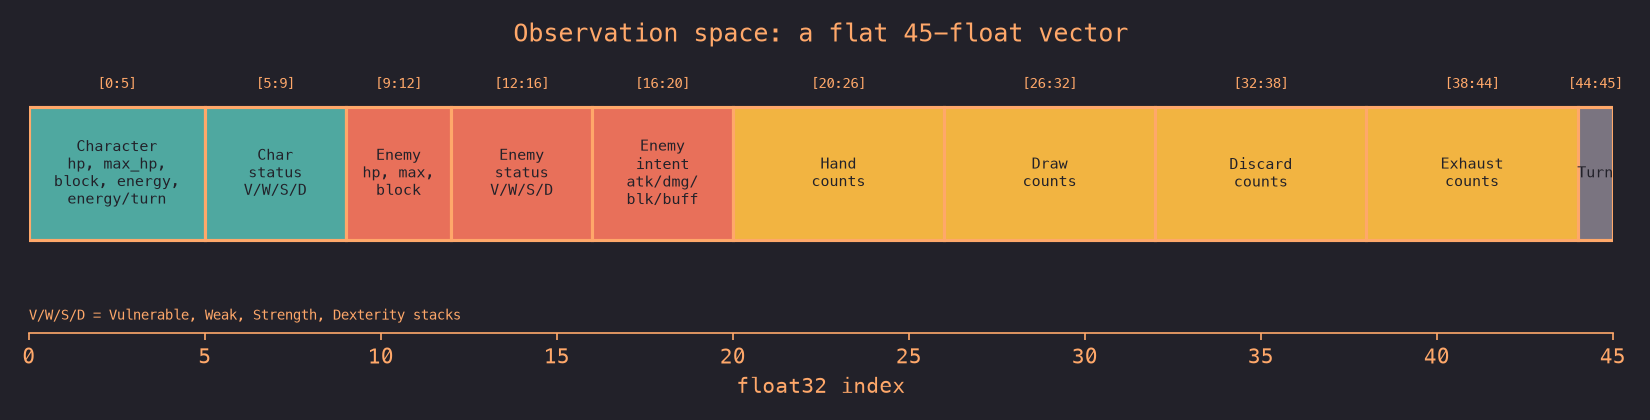
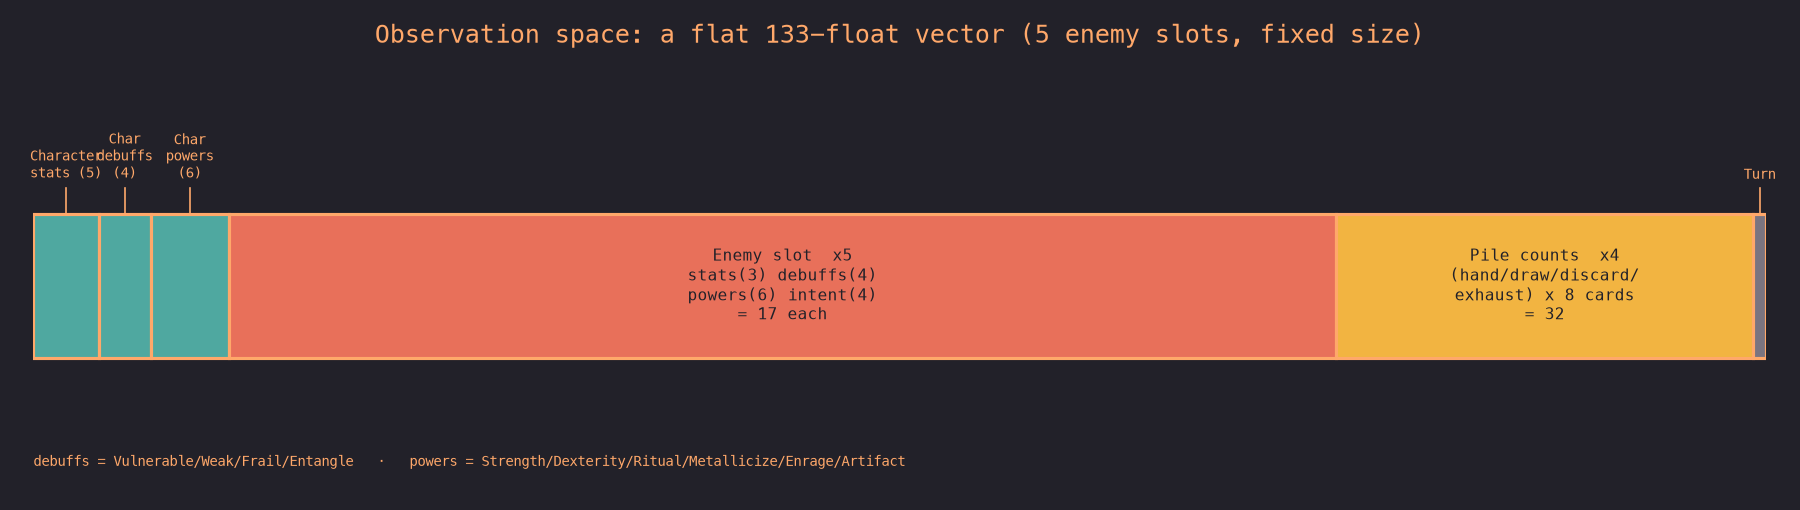
ROB-79: README overhaul + regenerated obs/action figures
Closes the M3 deferred batch. The README described a single Jaw Worm fight with
a 45-float obs and Discrete(7) -- all stale.

- README: reframed Scope around the full Act 1 roster + weighted encounter
  selection + the configurable simulator; Quickstart shows the --pool/--deck/
  --config CLI and the MinispireEnv(pool, deck) Python surface; Environment spec
  updated to the 133-float obs (debuff/power split, 5 fixed enemy slots) and
  Discrete(41) = 8 cards x 5 targets + end turn; roadmap reflects Phase 1 done.
- Figures (analysis/blog_figures.py): regenerated the obs + action diagrams for
  the new sizes, abbreviated per the "structure over enumeration" goal -- the obs
  band collapses the 5 enemy slots and 4 piles into summarized blocks, and the
  action figure is a card x target grid, not 41 boxes. Widths/counts are DERIVED
  from the engine constants (CombatEnv.*), so the figure can't drift again.
  Copied into assets/ (the tracked copies the README embeds).

227 C++ + 91 Python pass.

diff --git a/analysis/blog_figures.py b/analysis/blog_figures.py
@@ -80,50 +80,73 @@ ENV_STEPS_PER_SEC = 145_000
 TRAIN_FPS_BEST = 4_300
 TRAIN_FPS_CONTENDED = 1_135
 
-# --- Observation layout (src/combat_env.cc::compute_obs, 45 floats) ------------
-# (label, start_idx, count, color_key)
-_OBS_BLOCKS = [
-    ("Character\nhp, max_hp,\nblock, energy,\nenergy/turn", 0, 5, "agent"),
-    ("Char\nstatus\nV/W/S/D", 5, 4, "agent"),
-    ("Enemy\nhp, max,\nblock", 9, 3, "enemy"),
-    ("Enemy\nstatus\nV/W/S/D", 12, 4, "enemy"),
-    ("Enemy\nintent\natk/dmg/\nblk/buff", 16, 4, "enemy"),
-    ("Hand\ncounts", 20, 6, "deck"),
-    ("Draw\ncounts", 26, 6, "deck"),
-    ("Discard\ncounts", 32, 6, "deck"),
-    ("Exhaust\ncounts", 38, 6, "deck"),
-    ("Turn", 44, 1, "meta"),
-]
-
 # Dark fills want dark text on them; light fills (gold/tan) want dark text too.
 # A single dark ink for the on-block labels keeps them readable on every fill.
 _BLOCK_TEXT = "#222129"
 
 
+def _obs_blocks():
+    """Obs-layout blocks, widths DERIVED from the engine constants (ROB-79) so
+    the figure can't drift as statuses/cards are added. Abbreviated: the 5 enemy
+    slots collapse to one 'x5' block and the 4 piles to one block.
+    (label, width, color_key)."""
+    from minispire._core import CombatEnv as C
+    nd, npw = C.NUM_DEBUFFS, C.NUM_POWERS
+    stride, n = C.ENEMY_OBS_STRIDE, C.MAX_ENEMIES
+    cards = C.NUM_CARD_TYPES
+    return [
+        (f"Character\nstats (5)", 5, "agent"),
+        (f"Char\ndebuffs\n({nd})", nd, "agent"),
+        (f"Char\npowers\n({npw})", npw, "agent"),
+        (f"Enemy slot  x{n}\nstats(3) debuffs({nd})\npowers({npw}) intent(4)\n"
+         f"= {stride} each", stride * n, "enemy"),
+        (f"Pile counts  x4\n(hand/draw/discard/\nexhaust) x {cards} cards\n"
+         f"= {4 * cards}", 4 * cards, "deck"),
+        ("Turn", 1, "meta"),
+    ]
+
+
 def plot_obs_layout(out_dir: pathlib.Path) -> None:
-    """A linear band showing how the 45-float observation vector is carved up."""
+    """A linear band showing how the observation vector is carved up.
+
+    Abbreviated: the enemy slots and pile blocks are summarized rather than
+    enumerated (the point is the structure, not every individual cell). Widths
+    and the total are derived from the engine so this never goes stale."""
+    blocks = _obs_blocks()
+    total = sum(w for _, w, _ in blocks)
     with _theme():
-        fig, ax = plt.subplots(figsize=(11, 2.8))
-        for label, start, count, key in _OBS_BLOCKS:
+        fig, ax = plt.subplots(figsize=(12, 3.4))
+        start = 0
+        for label, width, key in blocks:
             ax.add_patch(
                 mpatches.Rectangle(
-                    (start, 0), count, 1, facecolor=PALETTE[key],
+                    (start, 0), width, 1, facecolor=PALETTE[key],
                     edgecolor=PALETTE["ink"], linewidth=1.5,
                 )
             )
-            ax.text(start + count / 2, 0.5, label, ha="center", va="center",
-                    fontsize=7, color=_BLOCK_TEXT)
-            ax.text(start + count / 2, 1.12, f"[{start}:{start + count}]",
-                    ha="center", va="bottom", fontsize=6.5, color=PALETTE["ink"])
-        ax.set_xlim(0, 45)
-        ax.set_ylim(-0.7, 1.4)
+            # Wide blocks fit the label inside; narrow blocks put it above with a
+            # short leader so the text doesn't overflow neighbors.
+            cx = start + width / 2
+            if width >= 12:
+                ax.text(cx, 0.5, label, ha="center", va="center",
+                        fontsize=7.5, color=_BLOCK_TEXT)
+            else:
+                ax.plot([cx, cx], [1.0, 1.18], color=PALETTE["ink"], linewidth=0.8)
+                ax.text(cx, 1.22, label, ha="center", va="bottom",
+                        fontsize=6.5, color=PALETTE["ink"])
+            start += width
+        ax.set_xlim(0, total)
+        ax.set_ylim(-0.9, 2.1)
         ax.set_yticks([])
-        ax.set_xticks(range(0, 46, 5))
-        ax.set_xlabel("float32 index")
-        ax.set_title("Observation space: a flat 45-float vector")
-        ax.text(0, -0.6, "V/W/S/D = Vulnerable, Weak, Strength, Dexterity stacks",
+        ax.set_xticks([])
+        from minispire._core import CombatEnv as _C
+        ax.set_title(f"Observation space: a flat {total}-float vector "
+                     f"({_C.MAX_ENEMIES} enemy slots, fixed size)")
+        ax.text(0, -0.75,
+                "debuffs = Vulnerable/Weak/Frail/Entangle   ·   "
+                "powers = Strength/Dexterity/Ritual/Metallicize/Enrage/Artifact",
                 fontsize=6.5, color=PALETTE["ink"])
-        for s in ("top", "right", "left"):
+        for s in ("top", "right", "left", "bottom"):
             ax.spines[s].set_visible(False)
         fig.tight_layout()
         fig.savefig(out_dir / "obs_layout.png", dpi=150)
@@ -131,23 +154,42 @@ def plot_obs_layout(out_dir: pathlib.Path) -> None:
 
 
 def plot_action_space(out_dir: pathlib.Path) -> None:
-    """The 7 discrete actions, with a note on masking."""
-    actions = ["Strike", "Defend", "Bash", "Strike+", "Defend+", "Bash+", "End turn"]
-    colors = [PALETTE["accent"]] * 6 + [PALETTE["meta"]]
+    """The Discrete(41) action space = 8 card types x 5 targets + end turn.
+
+    Abbreviated as a card x target grid rather than 41 individual boxes."""
+    cards = ["Strike", "Defend", "Bash", "Strike+", "Defend+", "Bash+",
+             "Slimed", "Dazed"]
+    n_targets = 5
     with _theme():
-        fig, ax = plt.subplots(figsize=(8, 2.4))
-        for i, (a, c) in enumerate(zip(actions, colors)):
-            ax.add_patch(mpatches.Rectangle(
-                (i, 0), 0.9, 1, facecolor=c, edgecolor=PALETTE["ink"], linewidth=1.5))
-            ax.text(i + 0.45, 0.5, f"{i}\n{a}", ha="center", va="center",
-                    fontsize=8, color=_BLOCK_TEXT)
-        ax.set_xlim(-0.1, 7)
-        ax.set_ylim(-0.5, 1.2)
+        fig, ax = plt.subplots(figsize=(9, 3.6))
+        # A grid: rows = card types, columns = target slots. Cell (r,c) is the
+        # action card_r * 5 + target_c.
+        for r, card in enumerate(cards):
+            for c in range(n_targets):
+                ax.add_patch(mpatches.Rectangle(
+                    (c, len(cards) - 1 - r), 0.92, 0.92,
+                    facecolor=PALETTE["accent"], edgecolor=PALETTE["ink"],
+                    linewidth=1.0))
+            ax.text(-0.2, len(cards) - 1 - r + 0.46, card, ha="right",
+                    va="center", fontsize=7.5, color=PALETTE["ink"])
+        # End-turn action sits apart.
+        ax.add_patch(mpatches.Rectangle(
+            (n_targets + 0.4, len(cards) / 2 - 0.5), 0.92, 0.92,
+            facecolor=PALETTE["meta"], edgecolor=PALETTE["ink"], linewidth=1.0))
+        ax.text(n_targets + 0.86, len(cards) / 2 - 0.02, "40\nEnd\nturn",
+                ha="center", va="center", fontsize=6.5, color=_BLOCK_TEXT)
+        for c in range(n_targets):
+            ax.text(c + 0.46, len(cards) + 0.15, f"→ enemy {c}", ha="center",
+                    va="bottom", fontsize=6.5, color=PALETTE["ink"])
+        ax.set_xlim(-2.2, n_targets + 1.6)
+        ax.set_ylim(-0.9, len(cards) + 0.7)
         ax.axis("off")
-        ax.set_title("Action space: Discrete(7) — play a card type, or end turn")
-        ax.text(3.5, -0.35,
-                "Invalid actions (not in hand / not enough energy) are masked each step.",
-                ha="center", fontsize=7.5, color=PALETTE["ink"])
+        ax.set_title("Action space: Discrete(41) = 8 card types x 5 target slots "
+                     "+ end turn")
+        ax.text((n_targets) / 2, -0.7,
+                "action = card x 5 + target.  Untargeted cards use slot 0; "
+                "invalid actions are masked each step.",
+                ha="center", fontsize=7, color=PALETTE["ink"])
         fig.tight_layout()
         fig.savefig(out_dir / "action_space.png", dpi=150)
         plt.close(fig)

diff --git a/README.md b/README.md
@@ -29,16 +29,29 @@ using a standard Gymnasium interface — action masking included.
   [sb3-contrib `MaskablePPO`](https://sb3-contrib.readthedocs.io) expects.
 - 🎲 **Deterministic & reproducible** — every shuffle and enemy move draws from a
   single seeded RNG, so any fight replays exactly from its seed.
-- 🕹️ **Human-playable** — a `rich` terminal UI (`minispire-play`) to play the
-  same fight the agent trains on.
+- 🕹️ **Human-playable** — a `rich` terminal UI (`minispire-play`) with per-enemy
+  ASCII avatars, intents, and status readouts: a faithful terminal Slay the
+  Spire you can point at any Act 1 pool or custom deck.
 
-## Scope (v1)
+## Scope
 
-A single combat encounter: **Ironclad starter deck vs. the Jaw Worm**, one fight,
-fixed deck, one enemy. This is intentional — the combat alone is a non-trivial RL
-problem (energy management, card sequencing, blocking vs. attacking, deck
-stochasticity) without the orthogonal complexity of map traversal, shops, or
-relics. Those are on the [roadmap](roadmap.md).
+A **single combat encounter**, but the full Act 1 fight — no map, shops, or
+relics (yet). The combat alone is a rich RL problem (energy management, card
+sequencing, blocking vs. attacking, deck & enemy stochasticity, multi-enemy
+targeting), and it now spans the whole Act 1 roster:
+
+- **Every Act 1 enemy** — normal enemies, both slime sizes + splitting Large
+  slimes, the 5-gremlin gang, and all three elites (Gremlin Nob, Lagavulin, the
+  3 Sentries) — faithfully modeled from the wiki (Ascension 0): exact AI,
+  HP ranges, moves, powers (Ritual, Metallicize, Enrage, Artifact), status
+  cards (Slimed, Dazed), split/wake/enrage mechanics.
+- **Faithful weighted encounter selection** — `reset()` samples an Act 1
+  encounter from the real Weak / Strong / Elite pools (single enemies *and*
+  multi-enemy groups).
+- **Configurable** — pick the encounter pool and the player's deck at env
+  construction, so it doubles as a pure combat sandbox.
+
+Map traversal, card rewards, and relics are on the roadmap.
 
 ## Install
 
@@ -57,24 +70,37 @@ Requires Python 3.12, a C++17 compiler, and CMake ≥ 3.16.
 
 ## Quickstart
 
-**Play a fight yourself** (terminal UI):
+**Play a fight yourself** (terminal UI — a faithful terminal Slay the Spire):
 
 ```bash
-uv run minispire-play 0           # optional seed
+uv run minispire-play 0                      # seed (positional, optional)
+uv run minispire-play --pool elite 3         # draw an elite fight
+uv run minispire-play --deck "strike,strike,strike,defend,bash"   # custom deck
+uv run minispire-play --config fights/nob.yaml                    # saved scenario
 ```
+
+Flags (`--pool weak|strong|elite`, `--deck`, `--seed`) are the quick path; a
+`--config <yaml>` file (keys `seed` / `pool` / `deck`) is the reusable-scenario
+layer, and CLI flags override it.
 
 **Use the environment in Python** — it's a standard Gymnasium env:
 
 ```python
 import numpy as np
 from minispire.env import MinispireEnv
+from minispire._core import EncounterPool, CardId
 
-env = MinispireEnv()                     # or hp_reward_coeff=0.5 for HP shaping
-obs, info = env.reset(seed=0)
+# Defaults to the Weak Act 1 pool + Ironclad starter deck. Configure both:
+env = MinispireEnv(
+    pool=EncounterPool.Elite,            # Weak / Strong / Elite
+    deck=[CardId.Strike] * 4 + [CardId.Bash],   # or None for the starter
+    hp_reward_coeff=0.5,                 # optional HP-retention shaping
+)
+obs, info = env.reset(seed=0)            # samples an encounter from the pool
 
 done = False
 while not done:
-    mask = env.action_masks()            # bool[7] of legal actions
+    mask = env.action_masks()            # bool[NUM_ACTIONS] of legal actions
     action = int(np.random.choice(np.flatnonzero(mask)))
     obs, reward, terminated, truncated, info = env.step(action)
     done = terminated or truncated
@@ -92,20 +118,27 @@ otherwise).
 
 ## Environment specification
 
-**Observation** — a flat `float32[45]` vector, colored here by semantic group:
+**Observation** — a flat `float32[133]` vector, colored here by semantic group.
+It's fixed-size: always 5 enemy slots (an `is_alive` flag zeroes empty/dead
+ones), so the same vector fits a lone Cultist and a 5-slime swarm.
 
 ![Observation space layout](assets/obs_layout.png)
 
-Pile slices are *counts per card type* (not ordered lists), so the vector is
-fixed-width and order-invariant — and draw order stays hidden, just as a human
-player sees only which cards are in the pile, not their order.
+Statuses split into **debuffs** (Vulnerable/Weak/Frail/Entangle — tick down) and
+**powers** (Strength/Dexterity/Ritual/Metallicize/Enrage/Artifact — persistent),
+per entity. Pile slices are *counts per card type* (not ordered lists), so the
+vector stays fixed-width and order-invariant — draw order is hidden, just as a
+human sees only which cards are in a pile, not their order.
 
-**Action** — `Discrete(7)`: play one of six card types, or end the turn.
+**Action** — `Discrete(41)`: an 8-card-type × 5-target-slot cross-product, plus
+end-turn. `action = card × 5 + target`; untargeted cards (Defend) use slot 0.
 
 ![Action space](assets/action_space.png)
 
-Invalid actions (card not in hand, or insufficient energy) are masked each step;
-end-turn is always legal.
+Invalid actions (card not in hand, insufficient energy, dead target, or an
+unplayable status card like Dazed) are masked each step; end-turn is always
+legal. Obs/action sizes are exposed as `CombatEnv.OBS_SIZE` / `NUM_ACTIONS` so
+they never drift.
 
 **Reward** — `+1` win / `-1` loss, `0` otherwise. An optional terminal HP-shaping
 bonus (`hp_reward_coeff * current_hp / max_hp`, added on a win) rewards winning
@@ -141,7 +174,7 @@ analysis/    blog/figure-generation tooling
 ## Development
 
 ```bash
-uv run pytest python/tests        # Python tests (82)
+uv run pytest python/tests        # Python tests
 
 cmake -S . -B build               # C++ build + GoogleTest
 cmake --build build
@@ -150,10 +183,14 @@ ctest --test-dir build
 
 ## Roadmap
 
-- **M2** — throughput benchmark: steps/sec vs. batch size, episode stats.
-- **M3** — PPO vs. DQN vs. MCTS on the fixed benchmark (`clone()` exists for MCTS).
-- **Beyond** — harder enemies, randomized intents, larger card pool; then map
-  generation and persisting state between fights.
+Phase 1 (a hard, faithful environment) is done: the full Act 1 combat roster,
+multi-enemy fights, and weighted encounter selection. Next:
+
+- **Throughput benchmark** — steps/sec vs. batch size, episode stats.
+- **RL comparison** — PPO vs. DQN vs. MCTS on the fixed benchmark (`clone()`
+  exists for MCTS).
+- **Beyond combat** — larger card pool + card rewards, sequential fights, then
+  Act 1 map generation and persisting state between fights.
 
 Full detail in [roadmap.md](roadmap.md).
 